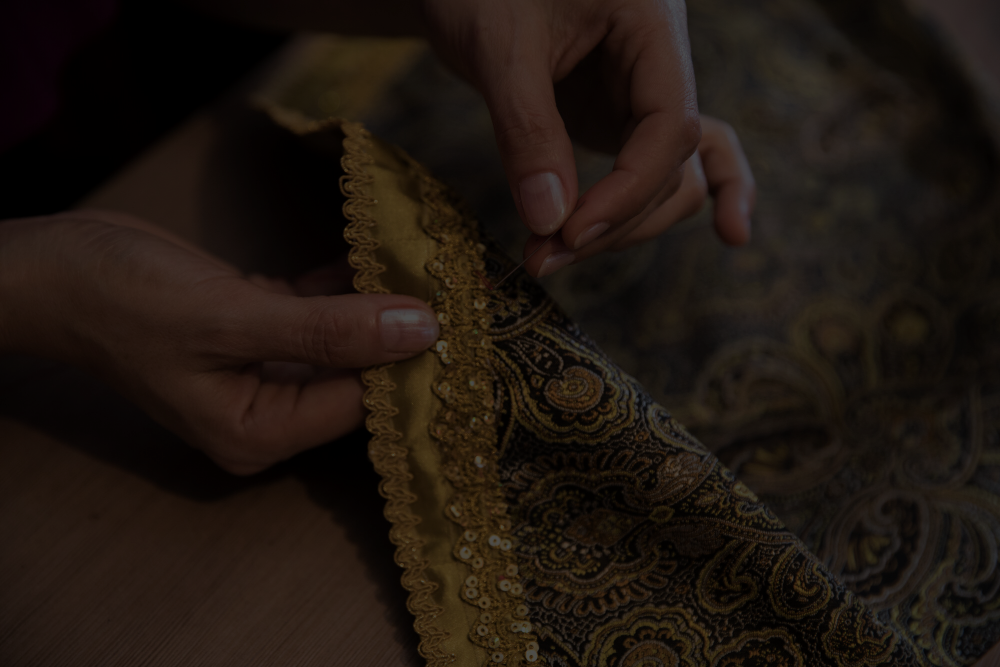
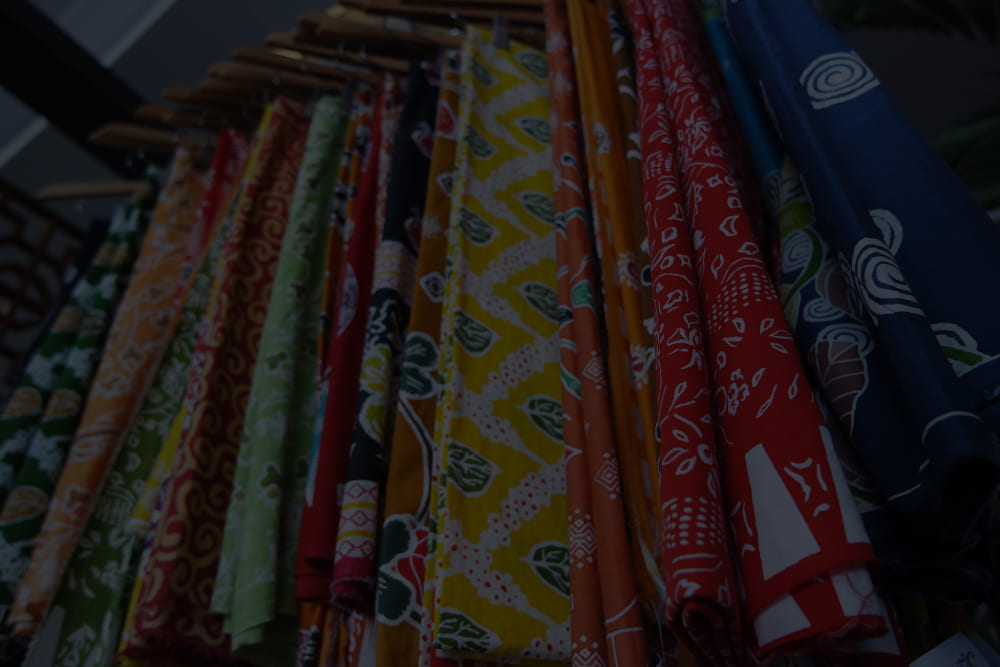
change hero images

diff --git a/public/css/apps.css b/public/css/apps.css
@@ -7,7 +7,7 @@
 }
 
 .bg-primary {
-  background-color: #1abc9c !important;
+  background-color: #007bff !important;
 }
 
 nav{

diff --git a/resources/views/home/contact.blade.php b/resources/views/home/contact.blade.php
@@ -2,7 +2,7 @@
 @section('title', $viewData['title']);
 @section('content')
   <!-- Title page -->
-  <section class="bg-img1 txt-center p-lr-15 p-tb-92" style="background-image: url('images/bg-01.jpg');">
+  <section class="bg-img1 txt-center p-lr-15 p-tb-92" style="background-image: url('images/bg-03.jpg');">
     <h2 class="ltext-105 cl0 txt-center">
       Contact
     </h2>

diff --git a/resources/views/home/about.blade.php b/resources/views/home/about.blade.php
@@ -4,7 +4,7 @@
 @section('content')
 
   <!-- Title page -->
-  <section class="bg-img1 txt-center p-lr-15 p-tb-92" style="background-image: url('images/bg-01.jpg');">
+  <section class="bg-img1 txt-center p-lr-15 p-tb-92" style="background-image: url('images/bg-02.jpg');">
     <h2 class="ltext-105 cl0 txt-center">
       About
     </h2>
